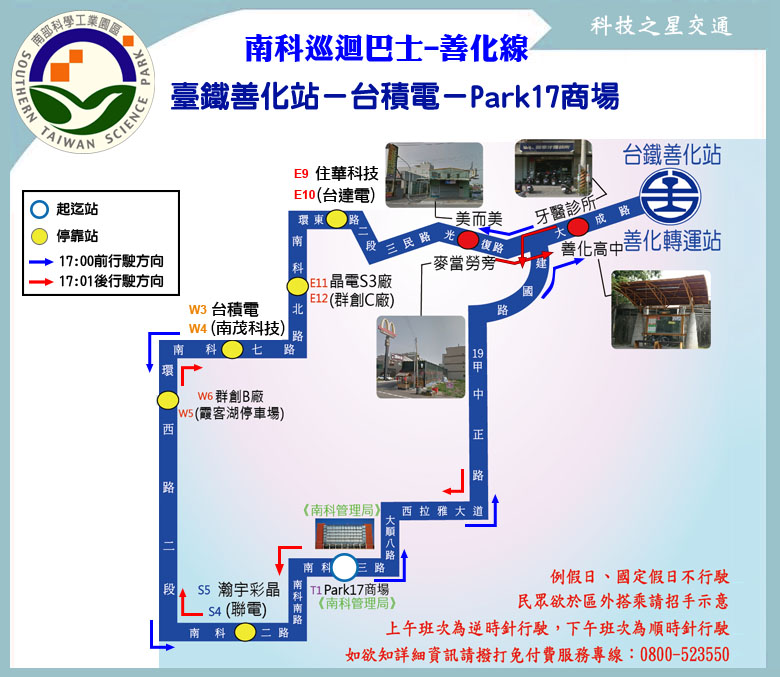
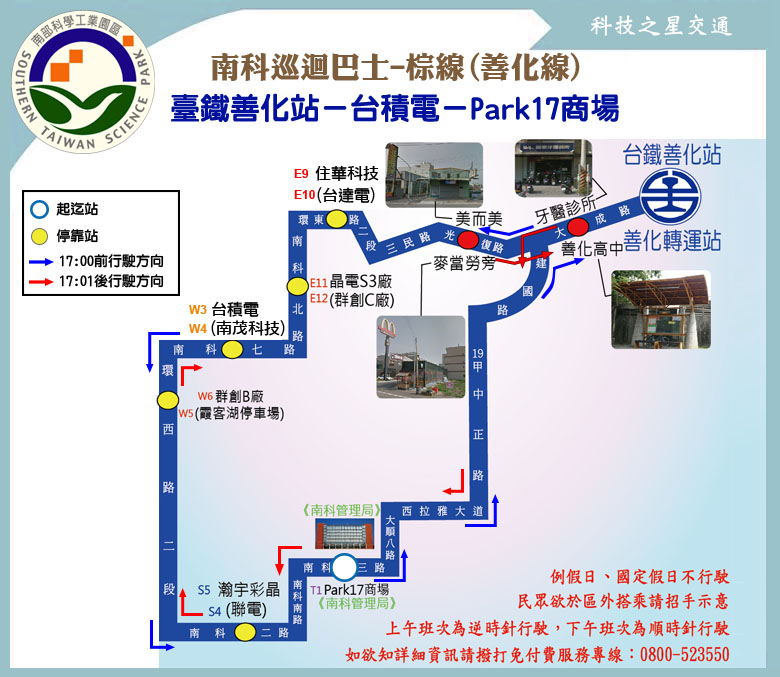
更新路線名稱：「南科善化線」更名為「南科棕線(善化線)」； 更新時刻表：南科棕線(善化線) (上午第三班次台鐵善化站時刻自08:28調整為08:16)

Changed region(s): [[0.2154, 0.031, 0.8, 0.1861]]

diff --git a/overview.html b/overview.html
@@ -116,7 +116,7 @@ function get_transfer_info(bus_stop){
 		+ get_button_string('green', 'green_3', '綠3')
 		+ get_button_string('green', 'green_4', '綠4')
 		+ get_button_string('green', 'green_11', '綠11')
-		+ get_button_string('STSP', 'STSP_Shanhua', '南科善化線')
+		+ get_button_string('STSP', 'STSP_Shanhua', '南科棕線')
 		+ '</table>\
 		<h1 align="center">善化區</h1>\
 		<table class="bg_table_overview" align="center">'
@@ -282,7 +282,7 @@ function get_transfer_info(bus_stop){
 		+ get_button_string('STSP', 'STSP_orange', '南科橘線')
 		+ get_button_string('STSP', 'STSP_blue', '南科藍線')
 		+ get_button_string('STSP', 'STSP_green', '南科綠線')
-		+ get_button_string('STSP', 'STSP_Shanhua', '南科善化線');
+		+ get_button_string('STSP', 'STSP_Shanhua', '南科棕線');
 		break;
 	case '山上':
 		div_string += get_button_string('green', 'green', '綠幹線')

diff --git a/route/fare_and_time/STSP_Shanhua.js b/route/fare_and_time/STSP_Shanhua.js
@@ -5,7 +5,7 @@ STSP_Shanhua_main_stop_name = ["Park 17<br />商場","善化高中","臺鐵<br /
 STSP_Shanhua_main_stop_time_consume = [0, 10, 15, 18, 20, 26, 29, 31, 33, 36, 38];
 STSP_Shanhua_important_stop = [0, 2, 7]; // Park 17商場, 臺鐵善化站, 台積電
 var TRA_Shanhua = 2; // 臺鐵善化站
-STSP_Shanhua_time_go = [["07:20",[[TRA_Shanhua,1]]],["07:38"],["08:01",[[TRA_Shanhua,12]]]];
+STSP_Shanhua_time_go = [["07:20",[[TRA_Shanhua,1]]],["07:38"],["08:01"]];
 
 // The name of return stops are different
 STSP_Shanhua_main_stop_name_return = ["Park 17<br />商場","聯電","霞客湖<br />停車場","南茂科技","群創C廠","台達電","麥當勞旁","善化高中","臺鐵<br />善化站","牙醫診所","Park 17<br />商場"];

diff --git a/tools/transfer_information.js b/tools/transfer_information.js
@@ -148,7 +148,7 @@ link_STSP_red = '<a href="../STSP/STSP_red.html" target="_blank">南科紅線</a
 link_STSP_orange = '<a href="../STSP/STSP_orange.html" target="_blank">南科橘線</a>';
 link_STSP_blue = '<a href="../STSP/STSP_blue.html" target="_blank">南科藍線</a>';
 link_STSP_green = '<a href="../STSP/STSP_green.html" target="_blank">南科綠線</a>';
-link_STSP_Shanhua = '<a href="../STSP/STSP_Shanhua.html" target="_blank">南科善化線</a>';
+link_STSP_Shanhua = '<a href="../STSP/STSP_Shanhua.html" target="_blank">南科棕線(善化線)</a>';
 
 transfer_tainan_railway_station = '<tr><th rowspan="8">臺南火車站</th>\
 <td style="text-align: center"><img src="' + LOGO_DIR_PATH + 'railway.png"></td>\

diff --git a/STSP/index.html b/STSP/index.html
@@ -17,7 +17,7 @@
 		<tr><td><a href="STSP_orange.html" class="orangeButton">南科橘線</a></td><td>'+ STSP_orange_route +'</td></tr>\
 		<tr><td><a href="STSP_blue.html" class="blueButton">南科藍線</a></td><td>'+ STSP_blue_route +'</td></tr>\
 		<tr><td><a href="STSP_green.html" class="greenButton">南科綠線</a></td><td>'+ STSP_green_route +'</td></tr>\
-		<tr><td><a href="STSP_Shanhua.html" class="brownButton">南科善化線</a></td><td>'+ STSP_Shanhua_route +'</td></tr>');
+		<tr><td><a href="STSP_Shanhua.html" class="brownButton">南科棕線</a></td><td>'+ STSP_Shanhua_route +'</td></tr>');
 	</script>
 </table>
 <div id="map">

diff --git a/STSP/STSP_Shanhua.html b/STSP/STSP_Shanhua.html
@@ -3,8 +3,8 @@
 <head>
 <meta http-equiv="Content-Type" content="text/html; charset=utf-8" />
 <script type="text/javascript">
-	route_name = '善化線';
-	route_name_en = 'Shanhua Line';
+	route_name = '棕線(善化線)';
+	route_name_en = 'Brown line';
 	route_file_name = 'STSP_Shanhua';
 	route_type = 'STSP';
 	route_interval = ['臺鐵善化站','台積電','Park 17商場'];

diff --git a/TainanBusMap/show_map.php b/TainanBusMap/show_map.php
@@ -54,7 +54,7 @@
 			else if($str_sec[1]=='orange') $ch_route_name = '橘線(北環西線)';
 			else if($str_sec[1]=='blue') $ch_route_name = '藍線(南環線)';
 			else if($str_sec[1]=='green') $ch_route_name = '綠線(高鐵線)';
-			else if($str_sec[1]=='Shanhua') $ch_route_name = '善化線';
+			else if($str_sec[1]=='Shanhua') $ch_route_name = '棕線(善化線)';
 			$ch_name = '南科巡迴巴士'.$ch_route_name;
 			break;
 		default:
